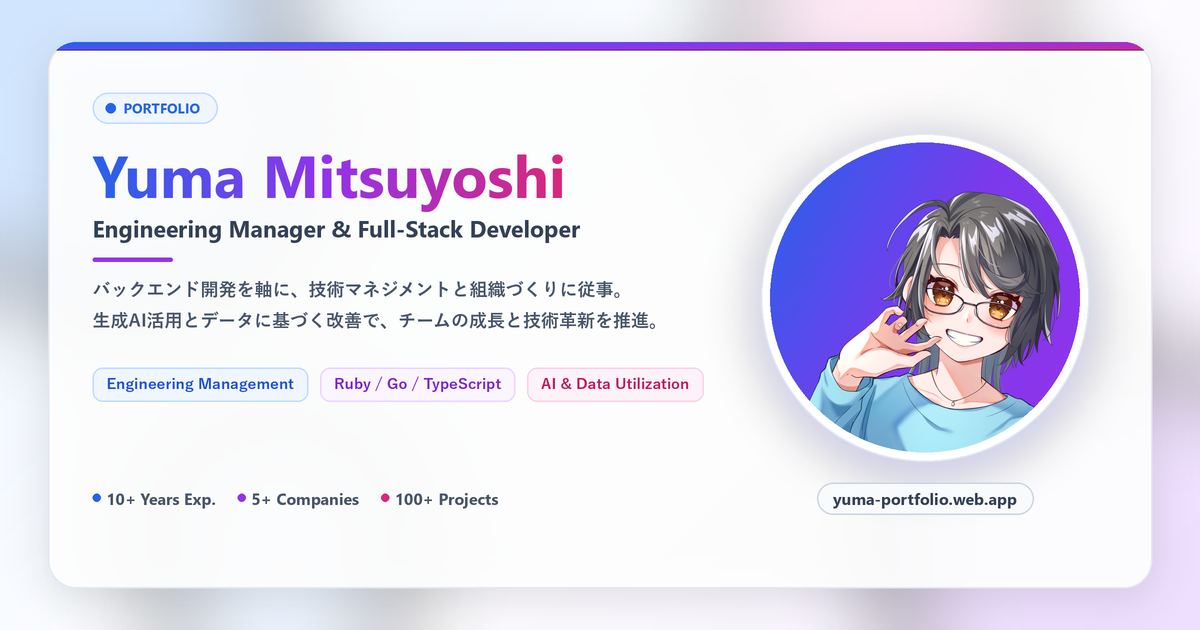
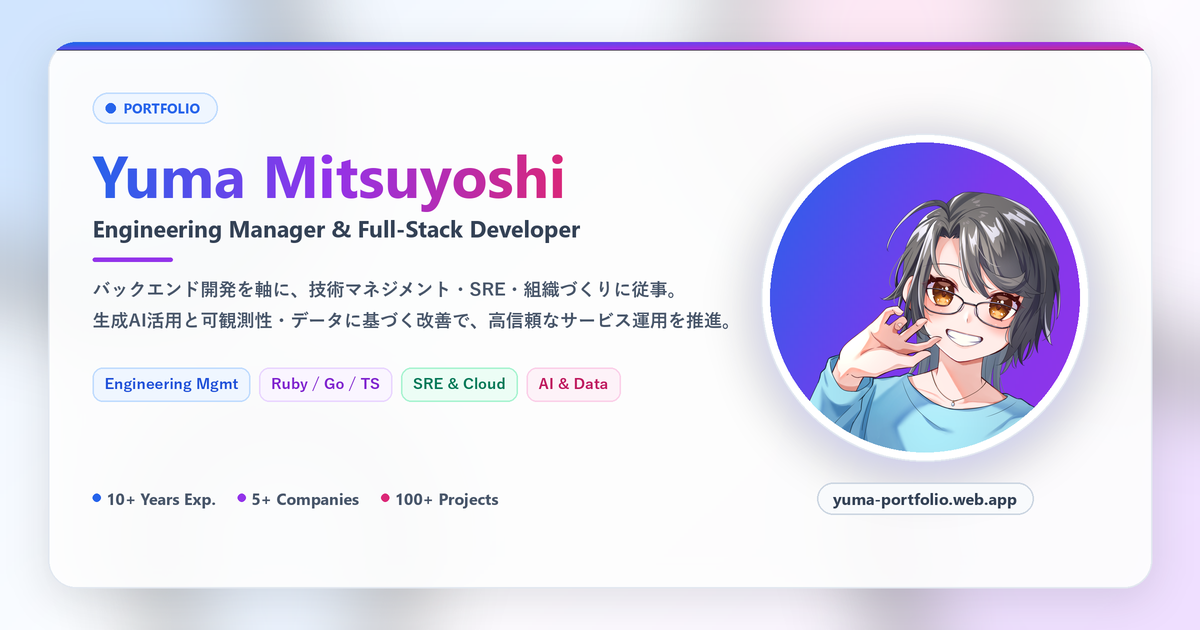
SREスキル・実績の記載強化とCI・外形監視・パフォーマンス等のSRE基盤強化

Changed region(s): [[0.1542, 0.4222, 0.6167, 0.5429], [0.0925, 0.573, 0.5858, 0.6635]]

diff --git a/pages/profile/index.vue b/pages/profile/index.vue
@@ -71,7 +71,9 @@
               </div>
               <div class="strength-item">
                 <span class="strength-dot bg-green-500"></span>
-                <span class="strength-text">パフォーマンス改善</span>
+                <span class="strength-text"
+                  >SRE・可観測性・パフォーマンス改善</span
+                >
               </div>
               <div class="strength-item">
                 <span class="strength-dot bg-yellow-500"></span>
@@ -98,7 +100,9 @@
                   >Ruby / Go を中心としたバックエンド開発</strong
                 >に強みを持ちます。
                 生成AI活用による業務改善、データに基づく開発生産性の可視化、
-                チームマネジメント・技術選定・パフォーマンスチューニングを得意としています。
+                <strong class="text-emerald-600"
+                  >SRE（可観測性向上・クラウド設計・パフォーマンスチューニング）</strong
+                >、チームマネジメント・技術選定を得意としています。
               </p>
               <p>
                 現在は<strong class="text-purple-600">株式会社TRUSTDOCK</strong
@@ -226,8 +230,13 @@
                     gRPC、GraphQL、DDD、クリーンアーキテクチャ
                   </li>
                   <li>
-                    <strong>安定運用・監視</strong> -
-                    Datadog、Sentry、パフォーマンス改善、着実なデリバリーと安定運用
+                    <strong>SRE・可観測性 (Observability)</strong> -
+                    Datadog、Sentry、CloudWatchによる監視・アラート設計、パフォーマンス改善、高信頼なサービス運用
+                  </li>
+                  <li>
+                    <strong>クラウドアーキテクチャ</strong> - Google Cloud
+                    (Professional Cloud
+                    Architect)、AWSによるセキュアで拡張性の高い基盤設計
                   </li>
                 </ul>
               </div>
@@ -295,9 +304,11 @@
                 <div class="project-highlight">
                   <div class="project-icon">🛡</div>
                   <div>
-                    <div class="project-title">確実なデリバリー・安定運用</div>
+                    <div class="project-title">
+                      SRE推進・可観測性と信頼性向上
+                    </div>
                     <div class="project-desc">
-                      大規模サービスの安定運用と着実な改善に貢献
+                      Datadog・Sentry等によるオブザーバビリティ強化、パフォーマンス改善と大規模サービスの安定運用に貢献
                     </div>
                   </div>
                 </div>
@@ -315,9 +326,9 @@
 useSeo({
   title: 'Profile - Yuma Mitsuyoshi',
   description:
-    '開発組織のマネージャー兼バックエンドエンジニアのプロフィール。10年以上の実務経験でRuby・Goを中心に開発し、生成AI活用、開発生産性の可視化、キャリアラダー設計を得意とします。',
+    '開発組織のマネージャー兼バックエンド・SREエンジニアのプロフィール。10年以上の実務経験でRuby・Go開発、SRE・クラウド設計（Google Cloud PCA）、生成AI活用、開発生産性の可視化、キャリアラダー設計を得意とします。',
   keywords:
-    'Profile,Yuma Mitsuyoshi,Engineering Manager,Career,プロフィール,経歴,Ruby,Go,バックエンド開発,チームマネジメント,生成AI,TRUSTDOCK,ココナラ,MERY',
+    'Profile,Yuma Mitsuyoshi,Engineering Manager,SRE,Career,プロフィール,経歴,Ruby,Go,バックエンド開発,Google Cloud,Datadog,チームマネジメント,生成AI,TRUSTDOCK,ココナラ,MERY',
   type: 'website',
   canonical: '/profile',
 })

diff --git a/pages/skill/index.vue b/pages/skill/index.vue
@@ -82,7 +82,7 @@
             <div class="strength-icon">⚡</div>
             <h3 class="strength-category">Proficient</h3>
             <p class="strength-description">
-              組織マネジメント・データ基盤・クラウドAI基盤
+              組織マネジメント・SRE / クラウド・データ基盤
             </p>
             <div class="strength-bar secondary-bar"></div>
           </div>
@@ -365,13 +365,19 @@ const skillCategories = [
   },
 
   {
-    title: 'クラウド・インフラ・OS',
+    title: 'クラウド・SRE・インフラ',
     icon: '☁',
     groups: [
       {
         title: 'クラウド・AI基盤',
-        strength: 'secondary',
+        strength: 'primary',
         items: [
+          {
+            label: 'Google Cloud (PCA)',
+            emoji: '🏅',
+            bgClass: 'bg-blue-100',
+            textClass: 'text-blue-800',
+          },
           {
             label: 'AWS',
             emoji: '🌩',
@@ -393,12 +399,6 @@ const skillCategories = [
           {
             label: 'Azure AI',
             emoji: '☁',
-            bgClass: 'bg-blue-100',
-            textClass: 'text-blue-800',
-          },
-          {
-            label: 'Google Cloud',
-            emoji: '🌐',
             bgClass: 'bg-blue-100',
             textClass: 'text-blue-800',
           },
@@ -496,8 +496,8 @@ const skillCategories = [
         ],
       },
       {
-        title: '監視・運用・可視化',
-        strength: 'secondary',
+        title: 'SRE・可観測性（Observability）',
+        strength: 'primary',
         items: [
           {
             label: 'Datadog',
@@ -524,6 +524,12 @@ const skillCategories = [
             textClass: 'text-orange-800',
           },
           {
+            label: 'SLO / SLI運用',
+            emoji: '🎯',
+            bgClass: 'bg-emerald-100',
+            textClass: 'text-emerald-800',
+          },
+          {
             label: 'Looker Studio',
             emoji: '📊',
             bgClass: 'bg-blue-100',
@@ -539,8 +545,14 @@ const skillCategories = [
       },
       {
         title: 'CI/CD・テスト',
-        strength: 'basic',
+        strength: 'secondary',
         items: [
+          {
+            label: 'GitHub Actions',
+            emoji: '🚀',
+            bgClass: 'bg-blue-100',
+            textClass: 'text-blue-800',
+          },
           {
             label: 'CircleCI',
             emoji: '🔁',
@@ -684,9 +696,9 @@ const skillCategories = [
 useSeo({
   title: 'Technical Skills - Yuma Mitsuyoshi',
   description:
-    'プログラミング言語、フレームワーク、クラウド・AI基盤、マネジメントの詳細。Ruby・Go・TypeScript、Vue.js・React、AWS Bedrock・SageMaker・Azure AI・Google Cloud、BigQuery・Datadog、キャリアラダー設計・開発生産性可視化などの実務経験。',
+    'プログラミング言語、フレームワーク、SRE・クラウド・AI基盤、マネジメントの詳細。Ruby・Go・TypeScript、Google Cloud (PCA)・AWS Bedrock・SageMaker、Datadog・Sentryによる可観測性向上、BigQuery、キャリアラダー設計・開発生産性可視化などの実務経験。',
   keywords:
-    'Technical Skills,Ruby,Go,TypeScript,Vue.js,React,AWS Bedrock,SageMaker,BigQuery,Datadog,生成AI,チームマネジメント,DDD,マイクロサービス',
+    'Technical Skills,SRE,Observability,Ruby,Go,TypeScript,Vue.js,React,Google Cloud,AWS Bedrock,SageMaker,BigQuery,Datadog,Sentry,生成AI,チームマネジメント,DDD,マイクロサービス',
   type: 'website',
   canonical: '/skill',
 })

diff --git a/pages/index.vue b/pages/index.vue
@@ -29,6 +29,9 @@
               <img
                 src="~/assets/icon.png"
                 alt="Yuma Mitsuyoshi"
+                width="80"
+                height="80"
+                fetchpriority="high"
                 class="w-20 h-20 object-contain"
               />
             </div>
@@ -49,8 +52,8 @@
           <p
             class="text-lg md:text-xl text-slate-600 leading-relaxed mb-12 max-w-3xl mx-auto"
           >
-            バックエンド開発を軸に、技術マネジメントと組織づくりに従事。<br />
-            生成AI活用とデータに基づく改善で、チームの成長と技術革新を推進しています。
+            バックエンド開発を軸に、技術マネジメント・SRE・組織づくりに従事。<br />
+            生成AI活用と可観測性・データに基づく改善で、チームの成長と高信頼なサービス運用を推進しています。
           </p>
 
           <!-- CTA Buttons -->
@@ -104,10 +107,10 @@
     <!-- Quick Overview Section -->
     <section class="py-20 bg-white">
       <div class="container mx-auto px-6">
-        <div class="max-w-4xl mx-auto text-center">
+        <div class="max-w-6xl mx-auto text-center">
           <h3 class="text-3xl font-bold text-slate-800 mb-12">What I Do</h3>
 
-          <div class="grid grid-cols-1 md:grid-cols-3 gap-8">
+          <div class="grid grid-cols-1 md:grid-cols-2 lg:grid-cols-4 gap-8">
             <!-- Engineering Management -->
             <div class="overview-card">
               <div
@@ -144,7 +147,26 @@
               </p>
             </div>
 
-            <!-- Full-Stack Development -->
+            <!-- SRE & Cloud Architecture -->
+            <div class="overview-card">
+              <div
+                class="w-16 h-16 bg-emerald-100 rounded-xl flex items-center justify-center mb-6 mx-auto"
+              >
+                <font-awesome-icon
+                  icon="chart-line"
+                  class="text-emerald-600 text-2xl"
+                />
+              </div>
+              <h4 class="text-xl font-semibold text-slate-800 mb-4">
+                SRE & Cloud
+              </h4>
+              <p class="text-slate-600">
+                Google Cloud /
+                AWS設計、Datadog・Sentryによる可観測性向上と高信頼なサービス安定運用
+              </p>
+            </div>
+
+            <!-- AI & Data Utilization -->
             <div class="overview-card">
               <div
                 class="w-16 h-16 bg-pink-100 rounded-xl flex items-center justify-center mb-6 mx-auto"
@@ -227,9 +249,9 @@
 useSeo({
   title: 'Yuma Mitsuyoshi - Engineering Manager & Full-Stack Developer',
   description:
-    'バックエンド開発を軸とした技術マネジメント・組織づくりに従事。Ruby・Go・TypeScriptによる開発と生成AI活用、開発生産性の可視化を通じた技術革新を推進しています。',
+    'バックエンド開発を軸とした技術マネジメント・SRE・組織づくりに従事。Ruby・Go・TypeScriptによる開発、クラウド設計・可観測性向上、生成AI活用、開発生産性の可視化を推進しています。',
   keywords:
-    'Yuma Mitsuyoshi,Engineering Manager,Backend Developer,Ruby,Go,TypeScript,Vue.js,React,生成AI,AWS,チームマネジメント,技術マネジメント',
+    'Yuma Mitsuyoshi,Engineering Manager,SRE,Backend Developer,Ruby,Go,TypeScript,Vue.js,React,生成AI,AWS,Google Cloud,Datadog,チームマネジメント,技術マネジメント',
   type: 'website',
 })
 

diff --git a/nuxt.config.js b/nuxt.config.js
@@ -26,12 +26,12 @@ export default defineNuxtConfig({
           key: 'description',
           name: 'description',
           content:
-            'バックエンド開発を軸とした技術マネジメント・組織づくりに従事。Ruby・Go・TypeScriptによる開発と生成AI活用、開発生産性の可視化を通じた技術革新を推進しています。',
+            'バックエンド開発を軸とした技術マネジメント・SRE・組織づくりに従事。Ruby・Go・TypeScriptによる開発、クラウド設計・可観測性向上、生成AI活用、開発生産性の可視化を通じた技術革新を推進しています。',
         },
         {
           name: 'keywords',
           content:
-            'Yuma Mitsuyoshi,Engineering Manager,Backend Developer,Ruby,Go,TypeScript,Vue.js,React,生成AI,AWS,チームマネジメント,技術マネジメント',
+            'Yuma Mitsuyoshi,Engineering Manager,SRE,Backend Developer,Ruby,Go,TypeScript,Vue.js,React,生成AI,AWS,Google Cloud,Datadog,チームマネジメント,技術マネジメント',
         },
         { name: 'author', content: 'Yuma Mitsuyoshi' },
         { name: 'robots', content: 'index,follow' },

diff --git a/composables/useSeo.js b/composables/useSeo.js
@@ -10,10 +10,10 @@ export const useSeo = (options = {}) => {
     defaultTitle:
       'Yuma Mitsuyoshi - Engineering Manager & Full-Stack Developer',
     defaultDescription:
-      'バックエンド開発を軸とした技術マネジメント・組織づくりに従事。Ruby・Go・TypeScriptによる開発と生成AI活用、開発生産性の可視化を通じた技術革新を推進しています。',
+      'バックエンド開発を軸とした技術マネジメント・SRE・組織づくりに従事。Ruby・Go・TypeScriptによる開発、クラウド設計・可観測性向上、生成AI活用、開発生産性の可視化を通じた技術革新を推進しています。',
     defaultImage: '/og-image.png',
     defaultKeywords:
-      'Yuma Mitsuyoshi,Engineering Manager,Backend Developer,Ruby,Go,TypeScript,Vue.js,React,生成AI,AWS,チームマネジメント,技術マネジメント',
+      'Yuma Mitsuyoshi,Engineering Manager,SRE,Backend Developer,Ruby,Go,TypeScript,Vue.js,React,生成AI,AWS,Google Cloud,Datadog,チームマネジメント,技術マネジメント',
     twitterHandle: '@MitsuyoshiYuma',
     language: 'ja',
     locale: 'ja_JP',

diff --git a/plugins/firebase.js b/plugins/firebase.js
@@ -1,6 +1,7 @@
 // plugins/firebase.js - Nuxt 4 & Vue 3対応
 import { initializeApp } from 'firebase/app'
 import { getAnalytics, logEvent } from 'firebase/analytics'
+import { getPerformance } from 'firebase/performance'
 
 export default defineNuxtPlugin(() => {
   // クライアントサイドでのみ実行
@@ -19,14 +20,18 @@ export default defineNuxtPlugin(() => {
 
     const app = initializeApp(firebaseConfig)
     let analytics = null
+    let performance = null
 
     try {
       // measurementId が空だと Analytics 初期化は失敗するため、存在チェック
       if (firebaseConfig.measurementId) {
         analytics = getAnalytics(app)
       }
+      if (firebaseConfig.appId) {
+        performance = getPerformance(app)
+      }
     } catch (e) {
-      // Analytics初期化エラーを無視
+      // Analytics / Performance 初期化エラーを無視
     }
 
     // Analytics ヘルパー関数
@@ -58,6 +63,7 @@ export default defineNuxtPlugin(() => {
       provide: {
         firebaseApp: app,
         analytics,
+        performance,
         trackEvent,
         trackPageView,
       },

diff --git a/layouts/default.vue b/layouts/default.vue
@@ -17,6 +17,8 @@
                 <img
                   src="~/assets/icon.png"
                   alt="Yuma Mitsuyoshi"
+                  width="24"
+                  height="24"
                   class="w-6 h-6 object-contain"
                 />
               </div>
